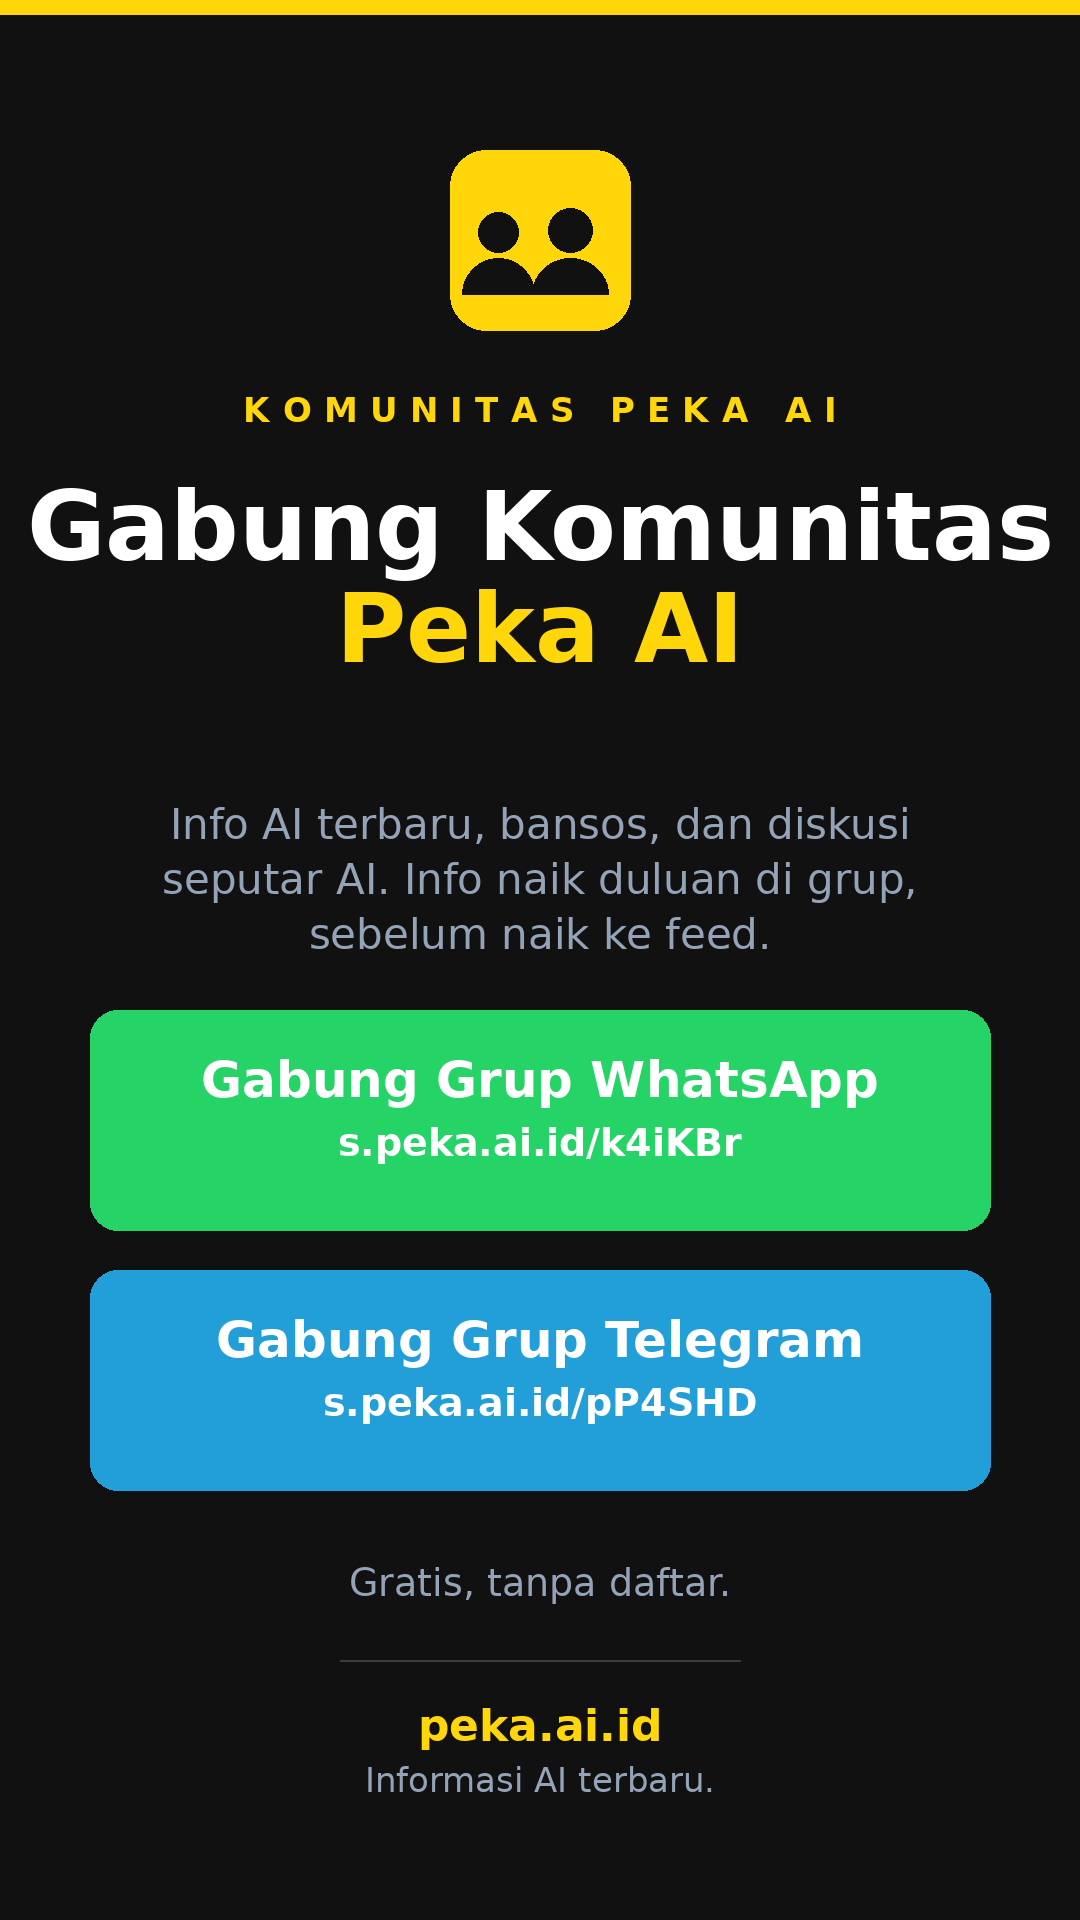
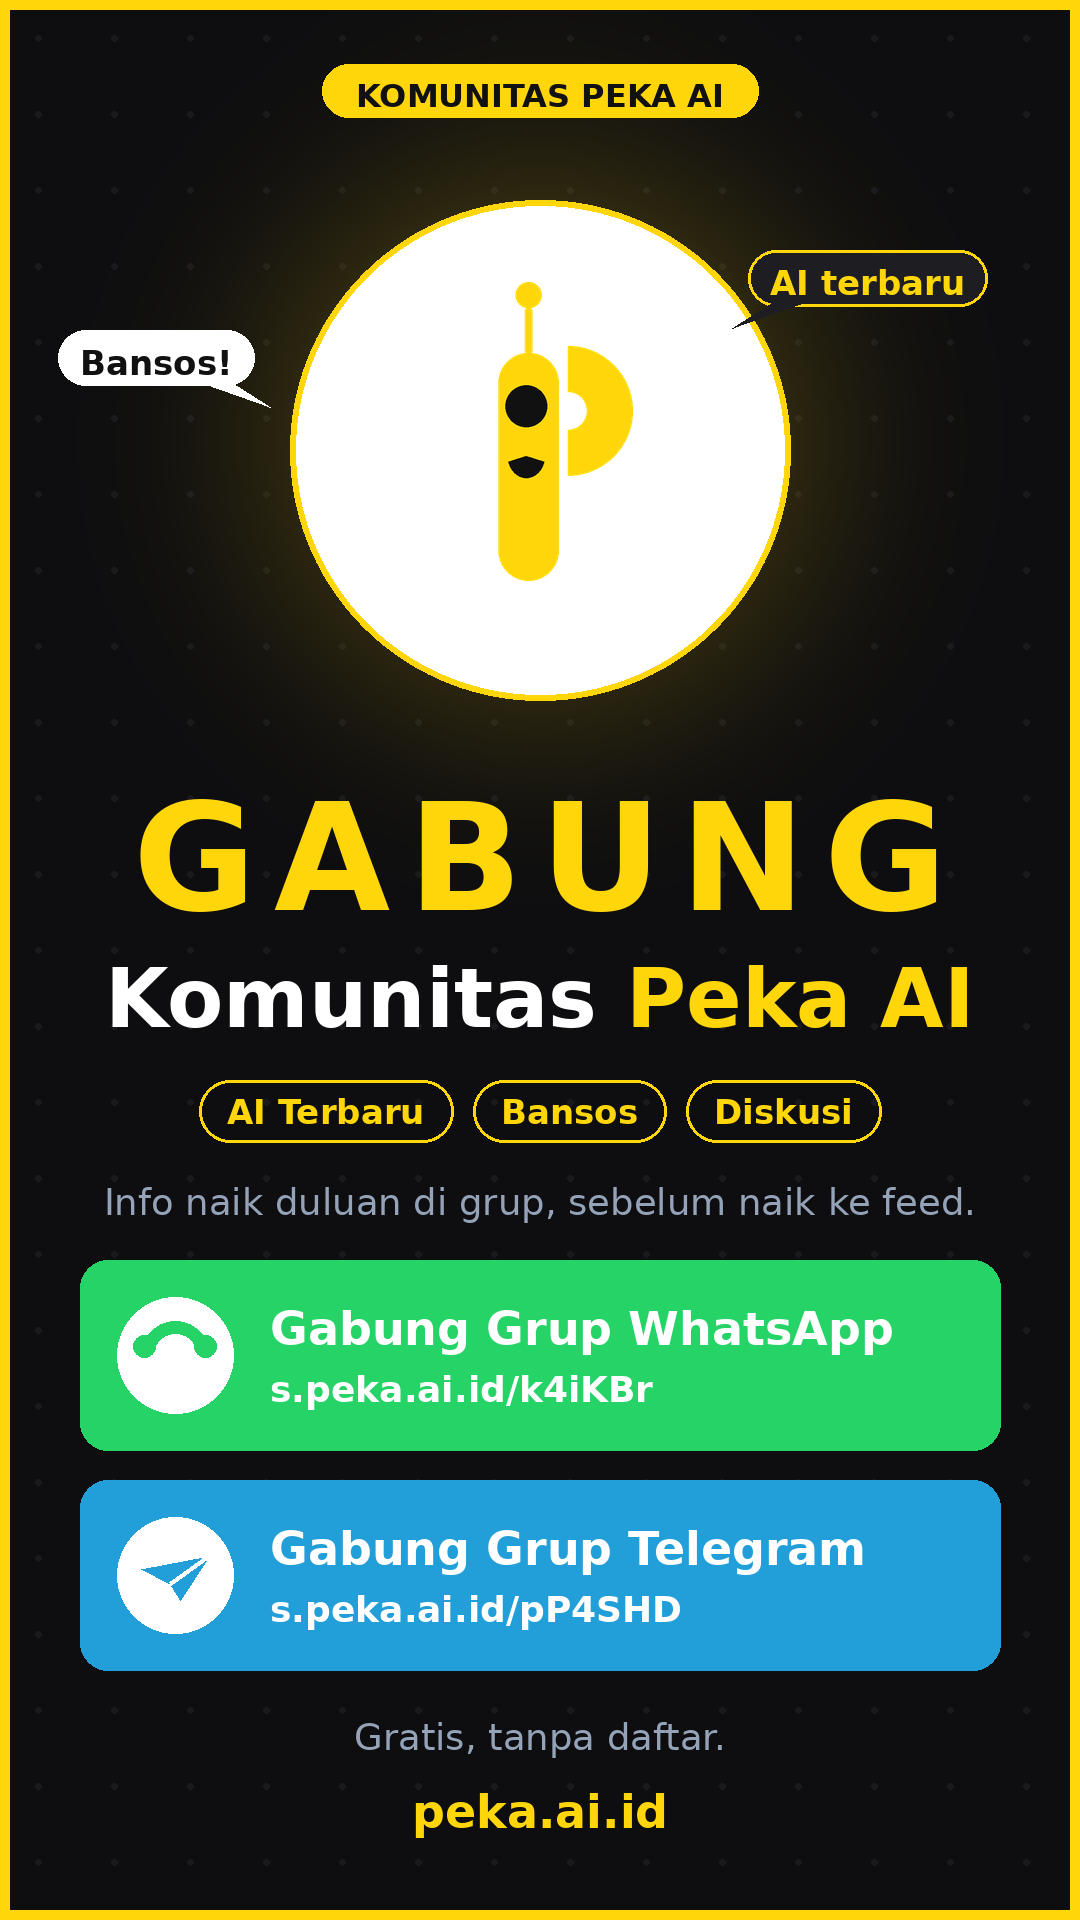
Auto sync 2026-11-07 07:12

diff --git a/community-story/build_story.py b/community-story/build_story.py
@@ -1,96 +1,171 @@
 #!/usr/bin/env python3
-"""Build IG/FB story 1080x1920: ajakan gabung Komunitas Peka AI.
-Peka brand: black #111111 + yellow #FFD60A. Links printed as admin shortlinks.
+"""Build IG/FB story 1080x1920 v2: ajakan gabung Komunitas Peka AI.
+Anti-slop: dot-grid texture, soft glow, mascot P on white disc, floating
+chat bubbles, two-tone title, icon cards. Peka brand black + yellow.
 """
 from pathlib import Path
-from PIL import Image, ImageDraw, ImageFont
+from PIL import Image, ImageDraw, ImageFont, ImageFilter
 
 W, H = 1080, 1920
 OUT = Path("/home/hatch/workspace/peka-content/community-story/2026-11-07/story-1080x1920.png")
 OUT.parent.mkdir(parents=True, exist_ok=True)
+MASCOT = "/home/hatch/workspace/peka-content/piko/piko-speaking.png"
 
-BLACK = (17, 17, 17)
+BASE = (14, 14, 16)
 WHITE = (255, 255, 255)
 YELLOW = (255, 214, 10)
 GREY = (148, 163, 184)
+DARK = (30, 30, 34)
 GREEN = (37, 211, 102)
 BLUE = (34, 158, 217)
-DARKTXT = (17, 17, 17)
 
 def font(name, size):
-    p = f"/usr/share/fonts/truetype/dejavu/{name}.ttf"
-    return ImageFont.truetype(p, size)
+    return ImageFont.truetype(f"/usr/share/fonts/truetype/dejavu/{name}.ttf", size)
 
-F_TITLE = font("DejaVuSans-Bold", 96)
-F_BODY = font("DejaVuSans", 42)
-F_BTN = font("DejaVuSans-Bold", 50)
-F_LINK = font("DejaVuSans-Bold", 38)
-F_EYE = font("DejaVuSans-Bold", 34)
-F_NOTE = font("DejaVuSans", 38)
-F_FOOT = font("DejaVuSans-Bold", 44)
+F_BIG = font("DejaVuSans-Bold", 150)
+F_SUB = font("DejaVuSans-Bold", 82)
+F_BODY = font("DejaVuSans", 37)
+F_CHIP = font("DejaVuSans-Bold", 34)
+F_CARD_T = font("DejaVuSans-Bold", 46)
+F_CARD_L = font("DejaVuSans-Bold", 36)
+F_NOTE = font("DejaVuSans", 37)
+F_FOOT = font("DejaVuSans-Bold", 46)
+F_PILL = font("DejaVuSans-Bold", 32)
 
-img = Image.new("RGB", (W, H), BLACK)
+img = Image.new("RGB", (W, H), BASE)
 d = ImageDraw.Draw(img)
 
-def text_center(y, text, f, fill):
+def text_size(text, f):
     bb = d.textbbox((0, 0), text, font=f)
-    w = bb[2] - bb[0]
-    d.text(((W - w) / 2 - bb[0], y), text, font=f, fill=fill)
-    return y + (bb[3] - bb[1])
+    return bb[2] - bb[0], bb[3] - bb[1]
 
-def rounded_rect(x0, y0, x1, y1, r, fill):
-    d.rounded_rectangle([x0, y0, x1, y1], radius=r, fill=fill)
+def text_center(y, text, f, fill):
+    w, h = text_size(text, f)
+    d.text(((W - w) / 2, y), text, font=f, fill=fill)
+    return y + h
 
-def tracked_center(y, text, f, fill, tracking=10):
-    # draw with manual letter spacing
+# 1. dot grid texture
+for gx in range(38, W, 76):
+    for gy in range(38, H, 76):
+        d.ellipse([gx - 3, gy - 3, gx + 3, gy + 3], fill=(26, 26, 30))
+
+# 2. soft yellow glow behind mascot
+glow = Image.new("RGBA", (W, H), (0, 0, 0, 0))
+gd = ImageDraw.Draw(glow)
+gd.ellipse([190, 90, 890, 790], fill=(255, 214, 10, 55))
+glow = glow.filter(ImageFilter.GaussianBlur(110))
+img.paste(glow, (0, 0), glow)
+d = ImageDraw.Draw(img)
+
+# 3. yellow frame
+d.rectangle([0, 0, W - 1, H - 1], outline=YELLOW, width=10)
+
+# 4. top pill: KOMUNITAS PEKA AI
+pill_text = "KOMUNITAS PEKA AI"
+pw, ph = text_size(pill_text, F_PILL)
+px0 = (W - pw) // 2 - 34
+py0, py1 = 64, 64 + ph + 30
+d.rounded_rectangle([px0, py0, px0 + pw + 68, py1], radius=(py1 - py0) // 2, fill=YELLOW)
+d.text((px0 + 34, py0 + 13), pill_text, font=F_PILL, fill=(17, 17, 17))
+
+# 5. white disc + mascot (speaking)
+cx, cy, r = 540, 450, 250
+d.ellipse([cx - r, cy - r, cx + r, cy + r], fill=WHITE)
+d.ellipse([cx - r, cy - r, cx + r, cy + r], outline=YELLOW, width=6)
+mascot = Image.open(MASCOT).convert("RGBA").resize((500, 500), Image.LANCZOS)
+img.paste(mascot, (cx - 250, cy - 250), mascot)
+d = ImageDraw.Draw(img)
+
+# 6. floating chat bubbles
+def bubble(x, y, text, f, bg, fg, border=None, tail="right"):
+    tw, th = text_size(text, f)
+    w, h = tw + 44, th + 30
+    if border:
+        d.rounded_rectangle([x, y, x + w, y + h], radius=h // 2, fill=bg, outline=border, width=3)
+    else:
+        d.rounded_rectangle([x, y, x + w, y + h], radius=h // 2, fill=bg)
+    if tail == "right":
+        d.polygon([(x + w - 28, y + h - 6), (x + w + 16, y + h + 22), (x + w - 52, y + h - 2)], fill=bg)
+    else:
+        d.polygon([(x + 28, y + h - 6), (x - 16, y + h + 22), (x + 52, y + h - 2)], fill=bg)
+    d.text((x + 22, y + 13), text, font=f, fill=fg)
+    return w, h
+
+bubble(58, 330, "Bansos!", F_CHIP, WHITE, (17, 17, 17), tail="right")
+bubble(748, 250, "AI terbaru", F_CHIP, DARK, YELLOW, border=YELLOW, tail="left")
+
+# 7. title: GABUNG (yellow, tracked) + Komunitas Peka AI (two-tone)
+def tracked_center(y, text, f, fill, tracking=14):
     widths = [d.textbbox((0, 0), ch, font=f)[2] for ch in text]
     total = sum(widths) + tracking * (len(text) - 1)
     x = (W - total) / 2
     for ch, w in zip(text, widths):
         d.text((x, y), ch, font=f, fill=fill)
         x += w + tracking
+    _, h = text_size(text, f)
+    return y + h
 
-# yellow top strip
-d.rectangle([0, 0, W, 14], fill=YELLOW)
+y = tracked_center(770, "GABUNG", F_BIG, YELLOW, tracking=18)
+# two-tone line: "Komunitas " white + "Peka AI" yellow
+part1, part2 = "Komunitas ", "Peka AI"
+w1, h1 = text_size(part1, F_SUB)
+w2, _ = text_size(part2, F_SUB)
+x0 = (W - (w1 + w2)) // 2
+d.text((x0, 950), part1, font=F_SUB, fill=WHITE)
+d.text((x0 + w1, 950), part2, font=F_SUB, fill=YELLOW)
 
-# people-icon tile (yellow rounded square + two black person shapes)
-TX0, TY0, TX1, TY1 = 450, 150, 630, 330
-rounded_rect(TX0, TY0, TX1, TY1, 36, YELLOW)
-cx = (TX0 + TX1) // 2
-# person left (smaller, behind)
-d.ellipse([cx - 62, TY0 + 62, cx - 22, TY0 + 102], fill=BLACK)
-d.pieslice([cx - 78, TY0 + 108, cx - 6, TY0 + 180], 180, 360, fill=BLACK)
-# person right (front)
-d.ellipse([cx + 8, TY0 + 58, cx + 52, TY0 + 102], fill=BLACK)
-d.pieslice([cx - 8, TY0 + 108, cx + 68, TY0 + 180], 180, 360, fill=BLACK)
+# 8. chips row: AI Terbaru / Bansos / Diskusi
+chips = ["AI Terbaru", "Bansos", "Diskusi"]
+cw = []
+for c in chips:
+    w, h = text_size(c, F_CHIP)
+    cw.append(w + 56)
+gap = 20
+total = sum(cw) + gap * (len(chips) - 1)
+x = (W - total) / 2
+cy0 = 1080
+for c, w in zip(chips, cw):
+    d.rounded_rectangle([x, cy0, x + w, cy0 + 62], radius=31, outline=YELLOW, width=3)
+    tw, th = text_size(c, F_CHIP)
+    d.text((x + (w - tw) / 2, cy0 + 12), c, font=F_CHIP, fill=YELLOW)
+    x += w + gap
 
-# eyebrow
-tracked_center(390, "KOMUNITAS PEKA AI", F_EYE, YELLOW, tracking=12)
+# 9. body line
+text_center(1180, "Info naik duluan di grup, sebelum naik ke feed.", F_BODY, GREY)
 
-# title (2 lines)
-y = text_center(470, "Gabung Komunitas", F_TITLE, WHITE)
-y = text_center(y + 8, "Peka AI", F_TITLE, YELLOW)
+# 10. group cards with icons
+def wa_icon(cx, cy, r, color):
+    # white circle handled by caller; draw green handset: arc + end dots
+    d.arc([cx - r, cy - r, cx + r, cy + r], start=195, end=345, fill=color, width=13)
+    import math
+    for ang in (195, 345):
+        a = math.radians(ang)
+        ex = cx + (r - 2) * math.cos(a)
+        ey = cy + (r - 2) * math.sin(a)
+        d.ellipse([ex - 11, ey - 11, ex + 11, ey + 11], fill=color)
 
-# body (2 lines)
-text_center(800, "Info AI terbaru, bansos, dan diskusi", F_BODY, GREY)
-text_center(855, "seputar AI. Info naik duluan di grup,", F_BODY, GREY)
-text_center(910, "sebelum naik ke feed.", F_BODY, GREY)
+def tg_icon(cx, cy, s, color):
+    # paper plane polygon
+    pts = [(cx - s, cy - s * 0.15), (cx + s, cy - s * 0.55), (cx + s * 0.15, cy + s * 0.75), (cx - s * 0.12, cy + s * 0.28)]
+    d.polygon(pts, fill=color)
+    d.line([(cx + s, cy - s * 0.55), (cx - s * 0.12, cy + s * 0.28)], fill=WHITE, width=4)
 
-# WhatsApp card
-rounded_rect(90, 1010, 990, 1230, 28, GREEN)
-text_center(1050, "Gabung Grup WhatsApp", F_BTN, WHITE)
-text_center(1120, "s.peka.ai.id/k4iKBr", F_LINK, WHITE)
+def card(y0, h, bg, title, link, icon_fn, icon_color):
+    x0, x1 = 80, 1000
+    d.rounded_rectangle([x0, y0, x1, y0 + h], radius=28, fill=bg)
+    icx, icy, ir = x0 + 95, y0 + h // 2, 58
+    d.ellipse([icx - ir, icy - ir, icx + ir, icy + ir], fill=WHITE)
+    icon_fn(icx, icy, 34, icon_color)
+    tx = x0 + 190
+    d.text((tx, y0 + 42), title, font=F_CARD_T, fill=WHITE)
+    d.text((tx, y0 + 108), link, font=F_CARD_L, fill=WHITE)
 
-# Telegram card
-rounded_rect(90, 1270, 990, 1490, 28, BLUE)
-text_center(1310, "Gabung Grup Telegram", F_BTN, WHITE)
-text_center(1380, "s.peka.ai.id/pP4SHD", F_LINK, WHITE)
+card(1260, 190, GREEN, "Gabung Grup WhatsApp", "s.peka.ai.id/k4iKBr", wa_icon, GREEN)
+card(1480, 190, BLUE, "Gabung Grup Telegram", "s.peka.ai.id/pP4SHD", tg_icon, BLUE)
 
-# note + footer
-text_center(1560, "Gratis, tanpa daftar.", F_NOTE, GREY)
-d.line([340, 1660, 740, 1660], fill=(60, 60, 60), width=2)
-text_center(1700, "peka.ai.id", F_FOOT, YELLOW)
-text_center(1760, "Informasi AI terbaru.", font("DejaVuSans", 34), GREY)
+# 11. footer
+text_center(1715, "Gratis, tanpa daftar.", F_NOTE, GREY)
+text_center(1785, "peka.ai.id", F_FOOT, YELLOW)
 
 img.save(OUT, "PNG")
 print(f"saved {OUT} {img.size}")
